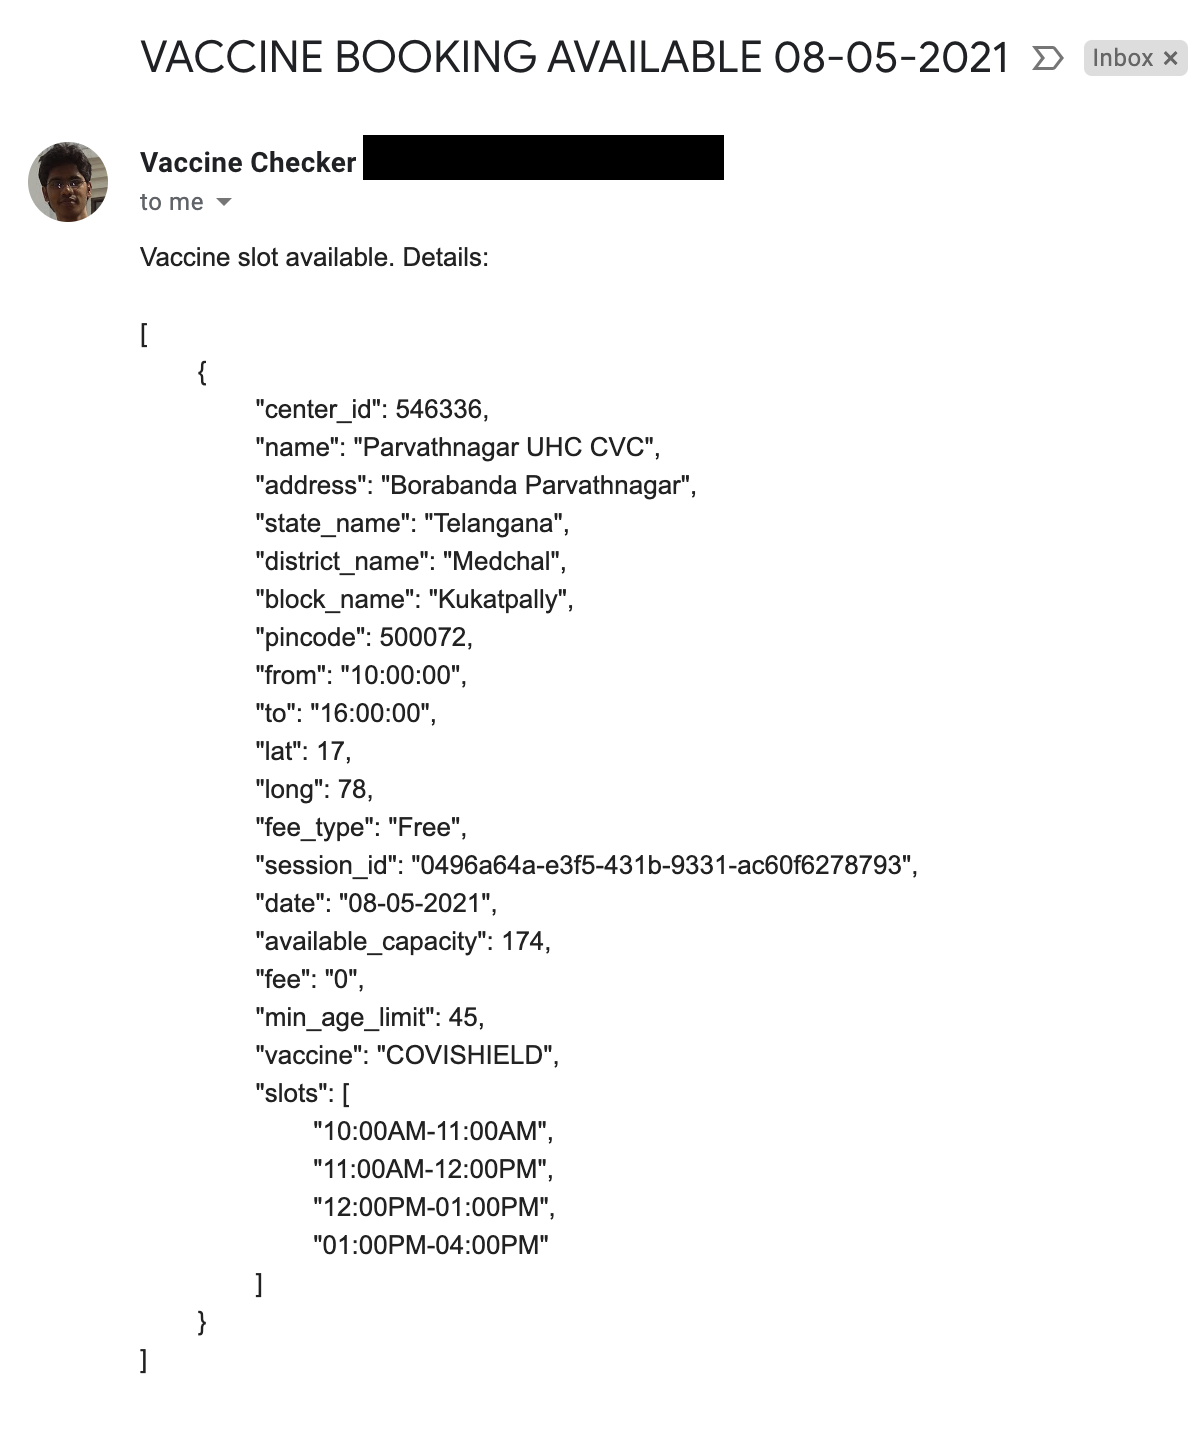
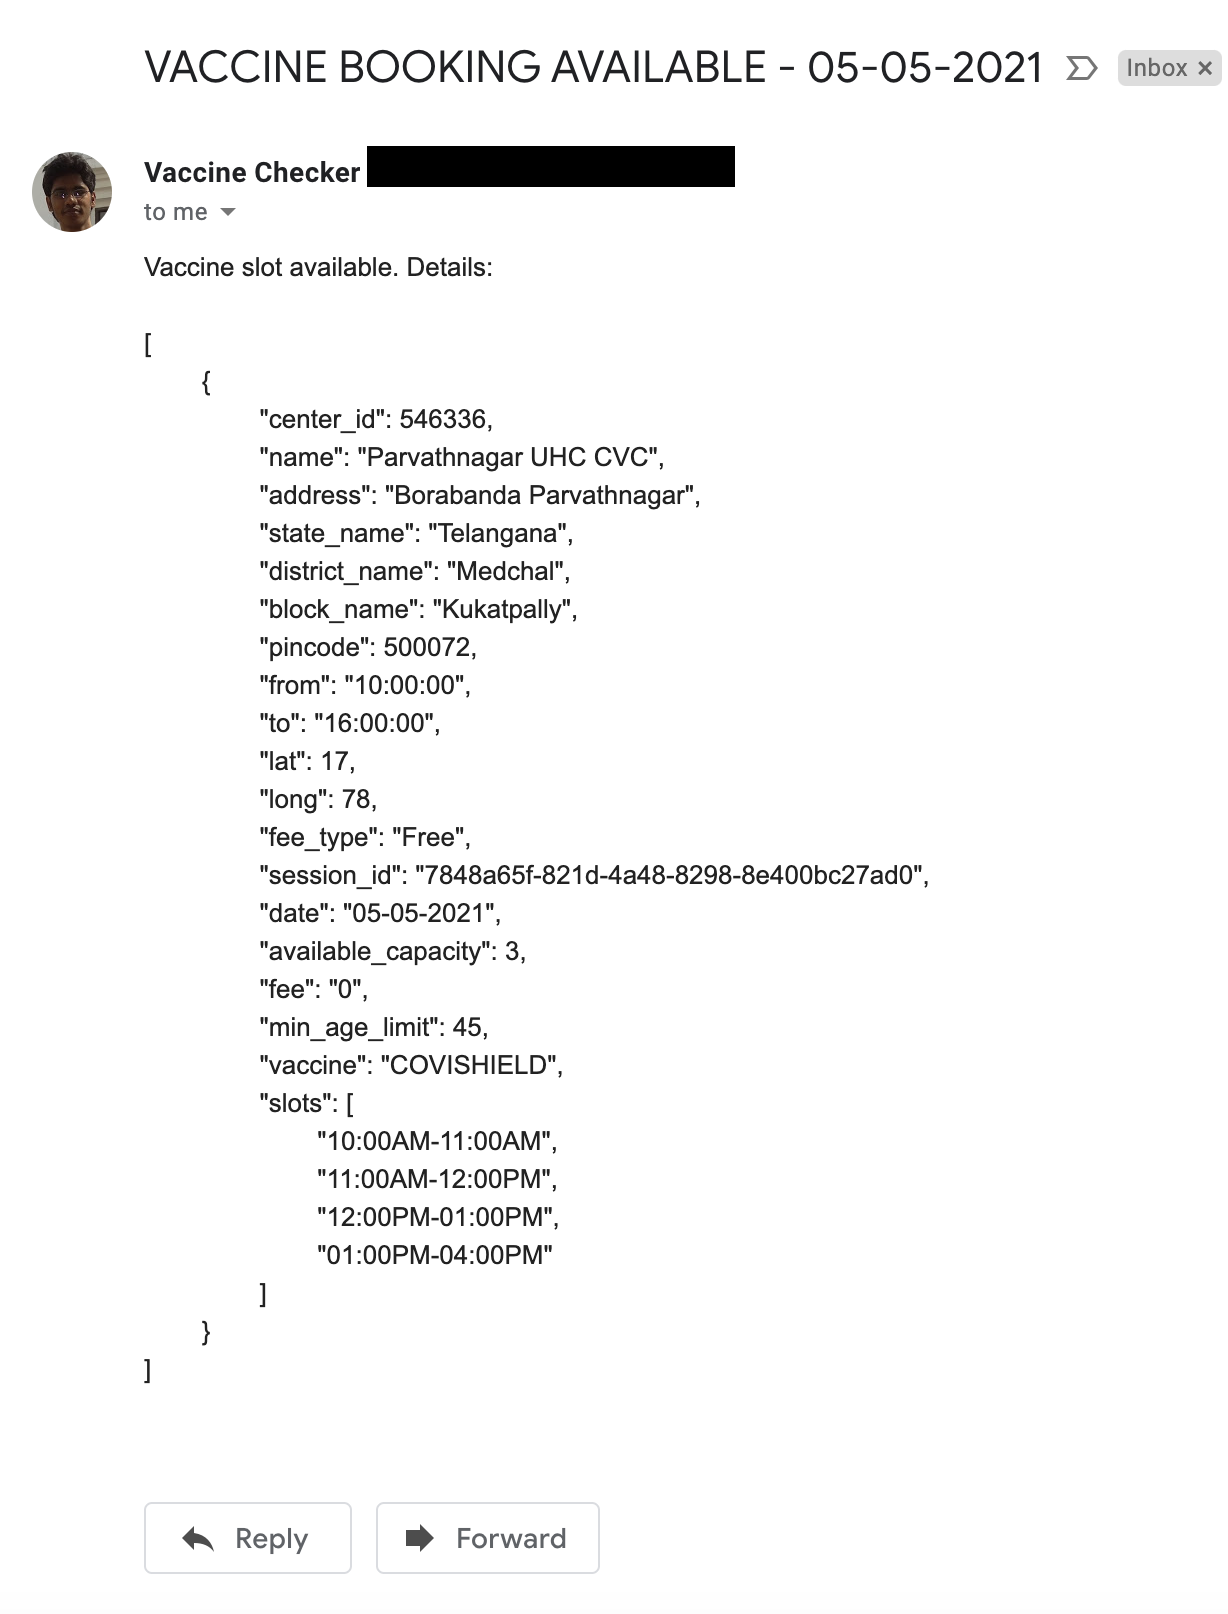
updated readme and env vars

diff --git a/vaccineNotifier.js b/vaccineNotifier.js
@@ -47,7 +47,7 @@ function getSlotsForDateAndPIN(date, pincode) {
             let validSlots = sessions.filter(slot => slot.min_age_limit <= AGE &&  slot.available_capacity > 0)
             console.log({date, pincode, validSlots: validSlots.length})
             if(validSlots.length > 0) {
-                notifyMe(validSlots);
+                notifyMe(validSlots, date);
             }
         })
         .catch(function (error) {
@@ -57,9 +57,9 @@ function getSlotsForDateAndPIN(date, pincode) {
 
 async function
 
-notifyMe(validSlots){
+notifyMe(validSlots, date){
     let slotDetails = JSON.stringify(validSlots, null, '\t');
-    notifier.sendEmail(SENDER_EMAIL, RECEIVER_EMAILS, 'VACCINE BOOKING AVAILABLE - ', slotDetails, (err, result) => {
+    notifier.sendEmail(SENDER_EMAIL, RECEIVER_EMAILS, 'VACCINE BOOKING AVAILABLE - ' + date, slotDetails, (err, result) => {
         if(err) {
             console.error({err});
         }

diff --git a/testNotifier.js b/testNotifier.js
@@ -1,12 +1,5 @@
 require('dotenv').config()
 const notifier = require('./notifier');
-/**
-Step 1) Enable application access on your gmail with steps given here:
- https://support.google.com/accounts/answer/185833?p=InvalidSecondFactor&visit_id=637554658548216477-2576856839&rd=1
-Step 2) Enter the details in the file .env, present in the same folder
-Step 3) On your terminal run: npm i && pm2 start vaccineNotifier.js
-To close the app, run: pm2 stop vaccineNotifier.js && pm2 delete vaccineNotifier.js
- */
 
 const SENDER_EMAIL = process.env.SENDER_EMAIL
 const RECEIVER_EMAILS = process.env.RECEIVER_EMAILS

diff --git a/README.md b/README.md
@@ -1,14 +1,14 @@
-## BharatVaccineSlotNotifier
+# BharatVaccineSlotNotifier
 This application checks the CoWIN portal periodically to find vaccination center slots availability in your area identified by your area pin code and for your age. If found, it will send you emails every minute until the slots are available.
 
 
-# Steps to run the script
+## Steps to run the script
 
 - Enable application access on your gmail with steps given here: [GMAIL App Password Generation]
 
 
 
-- Enter the details in the file .env, present in the same folder
+- Create a .env file in the root directory and fill the details as given in the .env.sample file.
 
 
 
